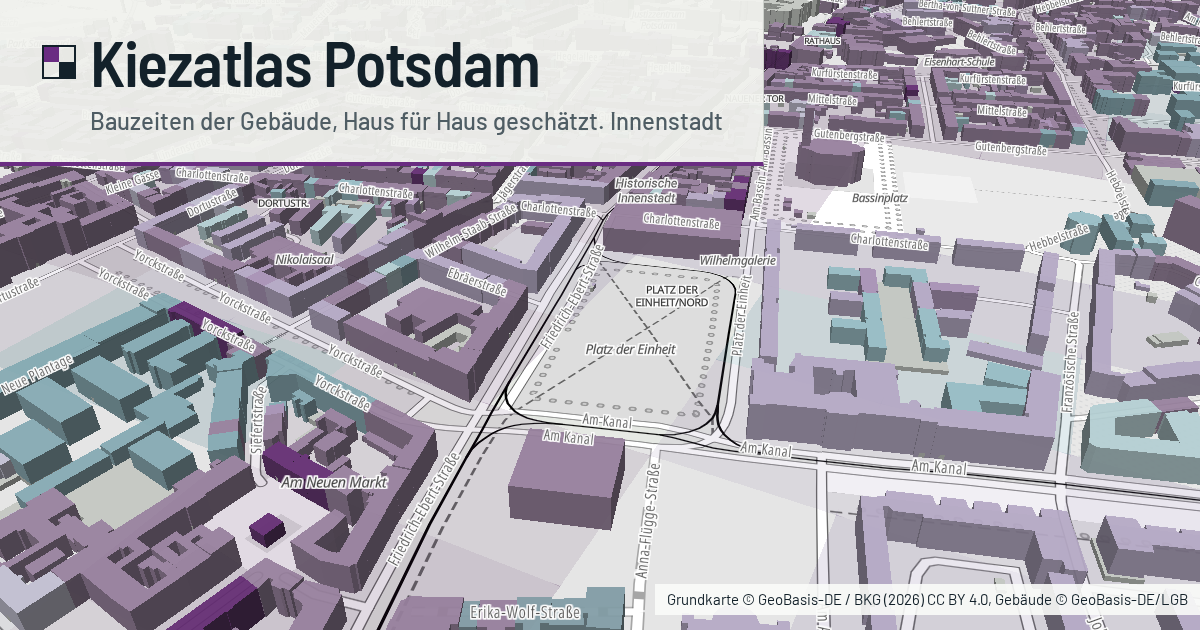
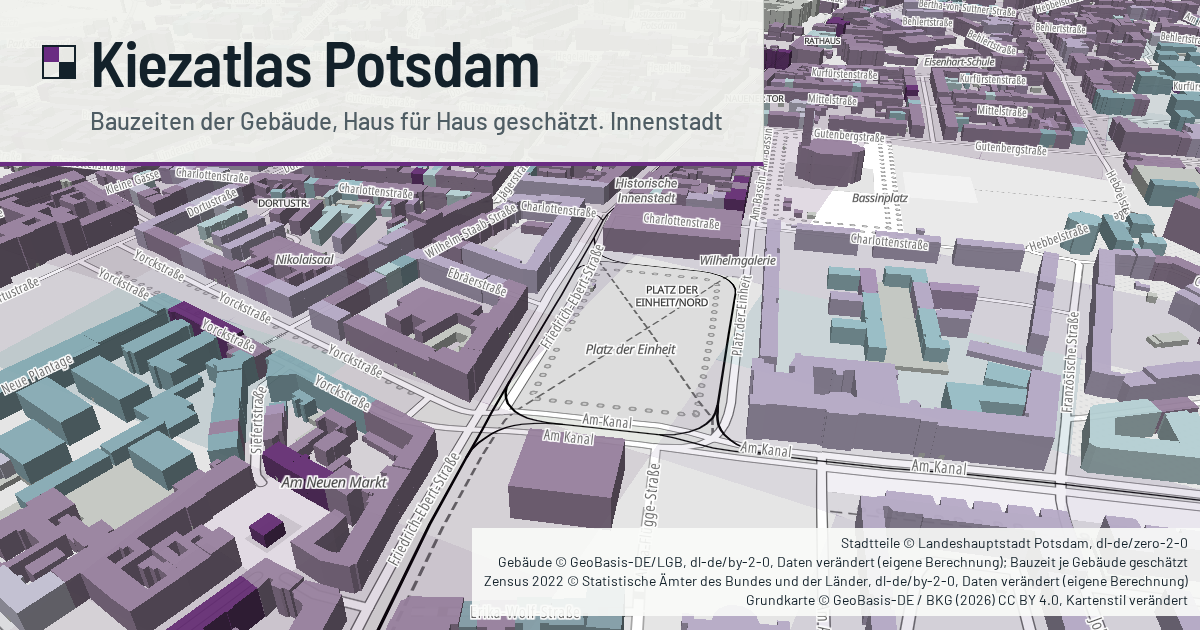
Gegenprobe zu „voll responsive“: Kartenknöpfe der Bauzeiten unten, Legende quer als Ebene, Bühne oben, Kopfleiste nur am Blatt
- Bauzeiten am Handy hoch und quer: Kartenknöpfe unten an der Karte und in einer Zeile über dem Quellen-„i“
  (vorher oben an der Kopfleiste; mit Kopf zurück oder offener Legende lagen sie unter „i“, Leiste oder Legende)
- Bauzeiten niedrig (bis 500 px): offene Legende als Ebene über der Karte, Höhe bis unter die Chips, Rest scrollt
  (vorher drückte sie die Karte auf 180 von 390 px)
- Nebeneinander (quer, Tablet; Bauzeiten jede Breite): Bühne beginnt beim Laden an der Oberkante unter der Kopfleiste
- kopf.js: nur #seite und #seite-inhalt zählen, verschachtelte Listen schalten die Kopfleiste nicht mehr zurück
- Karte/Planer schmal oder niedrig: fester Innenabstand im Blatt, kein Springen um die Kopfleistenhöhe
- #frage-8: scroll-margin-top zieht scroll-padding-top ab (Lücke 126 → 30 px)
- og.png: Quellenvermerk wörtlich aus dem „i“ der Seite (Lizenzen, Daten verändert, Zensus 2022)
- pruefen/responsiv.mjs: Zustände Hoch und Legende offen, Treffbarkeit der Kartenknöpfe, Bühne oben,
  Kopfzahlen, Liste dann Blatt; B5: Lücke unter der Bühne höchstens 40 px

Changed region(s): [[0.37, 0.8143, 1.0, 0.9952]]

diff --git a/jahre.css b/jahre.css
@@ -151,6 +151,9 @@
 .kopf-weg .jahreseite .maplibregl-ctrl-top-right{top:58px}
 .jahreseite .maplibregl-ctrl-top-right{transition:top .5s var(--ease)}
 .j-leiste{padding-bottom:calc(10px + var(--sa-unten))}
+/* Nebeneinander: die Bühne beginnt schon beim Laden an der Oberkante, unter der Kopfleiste (wie danach beim Kleben).
+   Sonst lagen Chips und Knöpfe bis zum ersten Scrollen eine Kopfleistenhöhe zu tief, quer mitten im Bild (Gegenprobe 07.11.) */
+.j-erzaehlung .j-buehne{margin-top:calc(-1 * var(--kopf))}
 
 /* ---------- Breiten ---------- */
 @media (max-width:1100px){
@@ -179,12 +182,18 @@
 /* Gestapelt (Handy hoch, gleiche Abfrage wie window.KIEZ_GESTAPELT): Bühne klebt oben, die Kopfleiste liegt
    darüber und klappt beim Lesen ein; die Bühne behält ihre Höhe (kein Neuzeichnen beim Ein- und Ausklappen) */
 @media (max-width:599px),(max-width:699px) and (orientation:portrait){
-  .j-erzaehlung .j-buehne{top:0;height:68svh}
-  .jahreseite .maplibregl-ctrl-top-right{top:calc(var(--kopf) + 54px)}
-  .kopf-weg .jahreseite .maplibregl-ctrl-top-right{top:54px}
+  .j-erzaehlung .j-buehne{top:0;height:68svh;margin-top:0}
   .j-leiste{padding-bottom:6px}
   /* „Auf der Karte zeigen“ scrollt zu „Selbst erkunden“: Titel unter der klebenden Bühne, nicht dahinter */
-  .j-erzaehlung #frage-8{scroll-margin-top:calc(68svh - 9svh)}   /* 9svh: Innenabstand der Frage oben */
+  /* 9svh: Innenabstand der Frage oben; scroll-padding-top (Kopfleiste + 8 px) zieht der Browser selbst dazu */
+  .j-erzaehlung #frage-8{scroll-margin-top:calc(68svh - 9svh - var(--kopf) - 8px)}
+}
+/* Handy hoch und niedrig: Kartenknöpfe unten an der Karte und in einer Zeile, immer über dem Quellen-„i“. Oben an der
+   Kopfleiste rutschten sie mit ihr nach unten und lagen dann unter dem „i“, der Leiste oder der offenen Legende (Gegenprobe 07.11.) */
+@media (max-width:599px),(max-width:699px) and (orientation:portrait),(max-height:500px){
+  .jahreseite .maplibregl-ctrl-top-right,.kopf-weg .jahreseite .maplibregl-ctrl-top-right{top:auto;bottom:62px;display:flex;flex-direction:row-reverse;align-items:flex-end}
+  .jahreseite .maplibregl-ctrl-top-right .maplibregl-ctrl-group{display:flex}
+  .jahreseite .maplibregl-ctrl-top-right .maplibregl-ctrl-group button+button{border-top:0;border-left:1px solid #ddd}
 }
 /* Niedrig (Handy quer): Leiste so knapp wie am Handy hoch */
 @media (max-height:500px){
@@ -194,6 +203,11 @@
   .j-klasse{font-size:.6875rem;min-height:40px}
   .j-klasse__balken{height:16px}
   .j-regler{height:22px;margin:0 0 2px}
+  /* Offene Legende als Ebene über der Karte, links neben den Knöpfen; in der Leiste drückte sie die Karte auf 180 von 390 px
+     (Gegenprobe 07.11.). Höhe bis unter die Chips (100 % = Höhe der Leiste), Rest scrollt; die Quelle steht im „i“ */
+  .j-leiste__fuss{position:absolute;z-index:3;left:calc(8px + var(--sa-links));bottom:calc(100% + 34px);max-width:calc(100% - 240px - var(--sa-links) - var(--sa-rechts));max-height:calc(100svh - 100% - 96px - var(--kopf));overflow:auto;overscroll-behavior:contain;padding:6px 10px;background:rgba(250,251,248,.95);border:1px solid var(--line)}
+  html.kopf-weg .j-leiste__fuss{max-height:calc(100svh - 100% - 96px)}
+  .j-leiste__fuss .j-legende__quelle{display:none}
 }
 /* Legende der Leiste einklappbar (Handy: eingeklappt, sonst nahm die Leiste so viel Höhe wie die Karte) */
 .j-legende-knopf{display:inline-flex;align-items:center;gap:6px;min-height:32px;padding:0 10px;border:1px solid var(--line);background:none;font:500 .8125rem/1 var(--f-text);color:var(--ink);cursor:pointer;border-radius:0;white-space:nowrap}

diff --git a/atlas.css b/atlas.css
@@ -335,6 +335,12 @@ select{font:500 1rem var(--f-text);padding:8px 10px;min-height:42px;border:1px s
   .buehne .werkzeug{left:0;right:0;top:calc(var(--kopf) + 6px);padding:0 calc(10px + var(--sa-rechts)) 4px 10px}
   html.kopf-weg .buehne .werkzeug{top:6px}
 }
+/* Nebeneinander, schmal oder niedrig: die Bühne beginnt schon beim Laden an der Oberkante, unter der Kopfleiste (wie danach
+   beim Kleben). Sonst lagen die Chips bis zum ersten Scrollen eine Kopfleistenhöhe zu tief und die Knöpfe unten
+   abgeschnitten (Gegenprobe 07.11.). Gestapelt setzt es unten zurück. */
+@media (max-width:860px),(max-height:500px){
+  .buehne{margin-top:calc(-1 * var(--kopf))}
+}
 /* Legende kompakt: schmal und bei niedriger Höhe (Handy quer) */
 @media (max-width:860px),(max-height:500px){
   .legende{left:8px;bottom:34px;width:auto;max-width:min(190px,calc(100% - 92px));padding:8px 10px 6px}
@@ -349,7 +355,7 @@ select{font:500 1rem var(--f-text);padding:8px 10px;min-height:42px;border:1px s
   .erzaehlung{display:block}
   .auftakt.frage{min-height:auto;padding:32px var(--gut) 36px}
   .lede{max-width:none}
-  .buehne{position:sticky;top:0;height:60svh;border-left:0;border-top:1px solid var(--line);border-bottom:1px solid var(--ink);z-index:5}
+  .buehne{position:sticky;top:0;height:60svh;margin-top:0;border-left:0;border-top:1px solid var(--line);border-bottom:1px solid var(--ink);z-index:5}
   .fragen{padding:0 var(--gut) 20svh}
   .frage{min-height:auto;padding:9svh 0 26svh 18px}
   .frage::before{top:9svh}

diff --git a/karte.css b/karte.css
@@ -39,8 +39,8 @@
   .kartenflaeche{inset:0;grid-template-columns:minmax(0,1fr) 320px}
   .kartenseite .werkzeug{top:calc(var(--kopf) + 8px);left:var(--sa-links);right:0;padding:0 calc(10px + var(--sa-rechts)) 4px 10px}
   html.kopf-weg .kartenseite .werkzeug{top:8px}
-  .seite{padding-top:var(--kopf);transition:padding-top .5s var(--ease)}
-  html.kopf-weg .seite{padding-top:0}
+  /* fester Innenabstand: er scrollt mit dem Inhalt weg; umschalten ließ den Text um die Kopfleistenhöhe springen */
+  .seite{padding-top:var(--kopf)}
   .seite .block{padding-right:calc(20px + var(--sa-rechts))}
   .kartenseite .maplibregl-ctrl-top-right{bottom:62px}
 }
@@ -51,7 +51,6 @@
   .kartenseite .legende{top:calc(var(--kopf) + 62px);bottom:auto;left:calc(8px + var(--sa-links))}
   html.kopf-weg .kartenseite .legende{top:62px}
   .seite{position:absolute;left:0;right:0;bottom:0;height:min(72svh,640px);padding-top:0;border-left:0;border-top:1px solid var(--ink);overflow:hidden;display:flex;flex-direction:column;z-index:6;translate:0 calc(100% - 64px - var(--sa-unten));transition:translate .45s var(--ease);box-shadow:0 -8px 24px rgba(19,33,42,.12)}
-  html.kopf-weg .seite{padding-top:0}
   .seite.offen{translate:0 0}
   .seite__griff{all:unset;box-sizing:border-box;display:flex;flex-direction:column;align-items:center;gap:6px;width:100%;min-height:64px;padding:8px 16px 10px;cursor:pointer;flex:0 0 auto;background:var(--surface)}
   .seite__griff:focus-visible{outline:2px solid var(--accent);outline-offset:-3px}

diff --git a/kopf.js b/kopf.js
@@ -20,8 +20,10 @@ window.KIEZ_GESTAPELT = "(max-width:599px),(max-width:699px) and (orientation:po
     else if (y < merk - SCHWELLE) { setze(false); merk = y; }
   }
   if (kartenseite) {
+    // Nur das Blatt selbst (nebeneinander) bzw. sein Inhalt (gestapelt) zählt; verschachtelte Listen (#treffer, #raeume)
+    // haben eigene Scrollstände und schalteten sonst die Kopfleiste mitten im Abwärtsscrollen zurück (Gegenprobe 07.11.)
     document.addEventListener("scroll", function (e) {
-      var t = e.target; if (t && t.nodeType === 1 && t.closest("#seite")) lage(t.scrollTop);
+      var t = e.target; if (t && (t.id === "seite" || t.id === "seite-inhalt")) lage(t.scrollTop);
     }, { capture: true, passive: true });
     // Blatt zu (Handy): die Kopfleiste ist wieder da
     var griff = document.getElementById("seite-griff");
